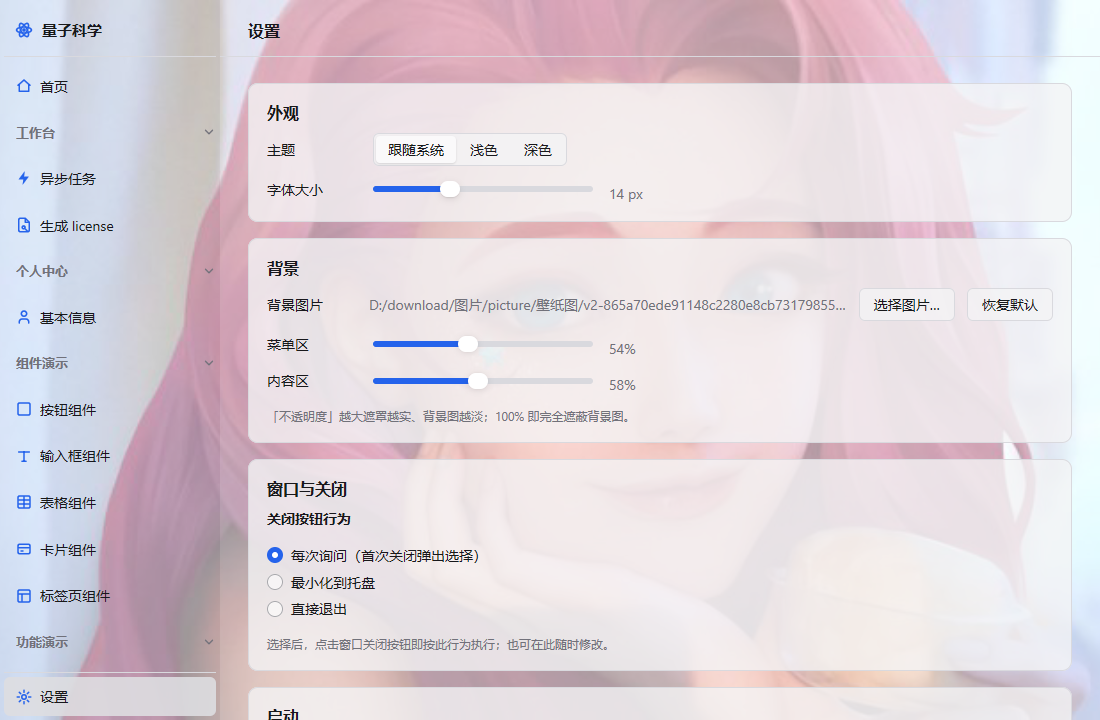
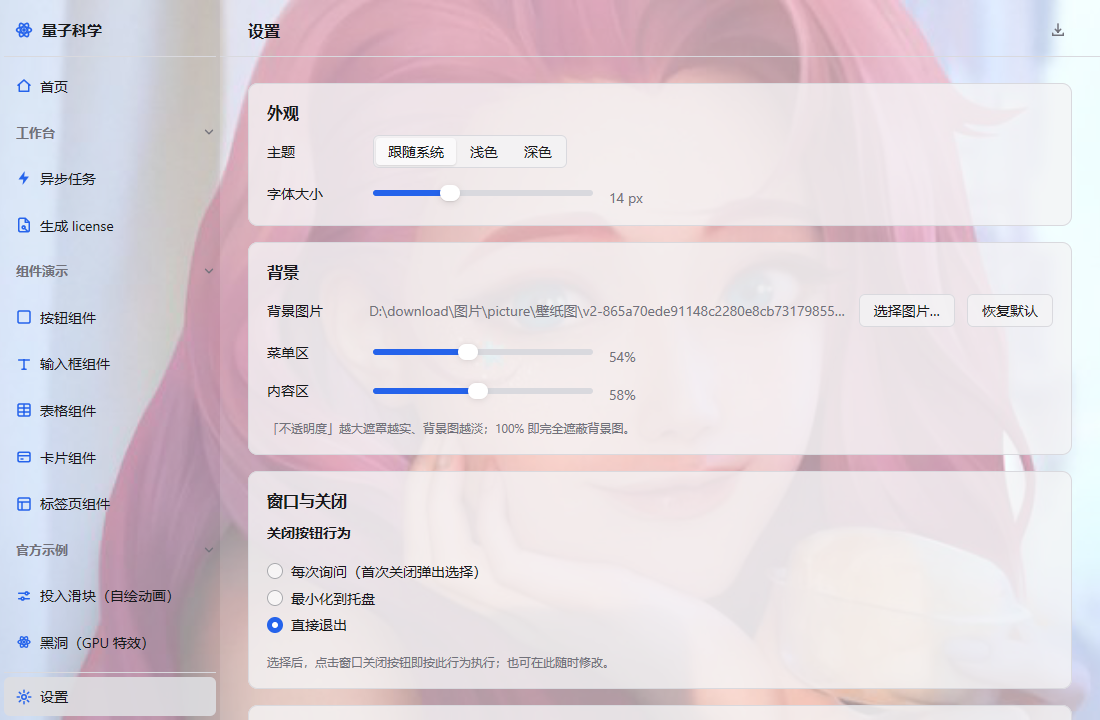
docs: 新增 CHANGELOG.md 并刷新全部界面截图
- CHANGELOG.md：按 mygo 规则分 `## <版本>` 段落（0.1.3/0.1.2/0.1.1/0.1.0）。
  发版时该段会写入 update-*.json 的 notes，并显示在客户端「发现新版本」弹窗
- 重新生成 12 张界面截图：更新控件移到标题栏后旧图已过期；
  12-settings-latest.png 改为 12-update-dialog.png（更新确认弹窗）
- 截图用 go test -overlay 编译期替换 appmeta.BuildVersion，
  避免 README 图里出现 dev 版本号
- README 图注同步（04 为设置页内弹窗、10~12 为标题栏与弹窗）
- docs/screenshots/README.md 补充：onEnter 抑制、更新三态摆法、overlay 用法

diff --git a/CHANGELOG.md b/CHANGELOG.md
@@ -1,0 +1,29 @@
+# 更新日志
+
+> 本文件会被 `go tool mygo build` 读取：`## <版本>` 到下一个 `## ` 之间的内容会成为
+> `update-<target>.json` 的 `notes`，并显示在客户端「发现新版本」弹窗里。
+> **发版前必须为新版本加一段**——文件存在但找不到对应段落时，构建会直接报错失败。
+
+## 0.1.3
+
+- 更新弹窗现在会显示发布说明（新增本文件）
+- Windows 免安装版新增英文名 zip：quantum-<ver>-windows-portable.zip，内含 量子科学.exe 与 icon.png，解压即用
+- 重新生成全部界面截图（更新控件移到标题栏后，旧图已过期）
+- 发布手册补充「签名密钥」章节：生成方式、密钥格式、签名对象、无私钥的后果
+
+## 0.1.2
+
+- 新增 `RELEASING.md` 发布与更新手册：双远端推送顺序、三平台 CI、draft 转正式、故障排查
+- 补充中文 exe 排查结论（GitHub Releases 不接受中文资产名，会变成 `default.exe`）与 Windows 免安装用法
+
+## 0.1.1
+
+- 接入 `mygo.Updater` 自动更新：GitHub Release + ed25519 验签、就地替换、自动重启
+- 设置页标题栏新增更新控件：无更新为图标按钮，有更新为高亮「更新」胶囊，点击弹确认弹窗
+- 移除运行时可配置的「更新服务器」，更新源改为构建期固化（`mygo.json` 的 `updates`）
+
+## 0.1.0
+
+- 首个版本：首页、异步任务、生成 license、组件演示、官方示例、功能演示、设置
+- 菜单注册表 + 页面生命周期（keepPinned / keepCached / keepFresh）
+- 背景图 + 分区透明度、轻重两级任务反馈、彩带庆祝

diff --git a/docs/screenshots/README.md b/docs/screenshots/README.md
@@ -53,3 +53,26 @@ func TestShots(t *testing.T) {
 - `render(a)` 就是 `ui.NewTester(a.View, 1100, 720)`，无窗口；
 - 彩带这种动画需要 `tt := render(a); a.celebrate(4); for i:=0;i<8;i++ { tt.Advance(60*time.Millisecond); tt.Frame() }` 再取 `tt.Image()`；
 - 截图会带上当前主题（浅色/深色）与背景图，想要深色版就把 `settings.Default().Theme` 改成 `"dark"`。
+
+## 两个必须注意的点
+
+- **进设置页前要抑制 `onEnter`**：设置页的 `onEnter` 会真的发起一次检查更新（网络请求）。截图前把 `a.pagePrev = a.page`，`SyncPages` 就不会触发钩子。
+- **更新控件已移到标题栏**，三种状态这样摆：
+
+  ```go
+  a.updateChecking = true                                            // 检查中（呼吸点）
+  a.availableUpdate = &mygo.Update{Version: "0.1.3", Notes: "…", Date: someDate} // 发现新版本（蓝色胶囊）
+  a.showUpdateDialog = true                                          // 再点开确认弹窗
+  ```
+
+- **版本号**：`appmeta.BuildVersion()` 在测试二进制里恒为 `dev`。想让截图显示真实版本，用 `go test -overlay` 在**编译期**替换 `internal/appmeta/appmeta.go`（不要改仓库里的文件）：
+
+  ```json
+  { "Replace": {
+      "D:/workbuddy/bestuav-mygo/internal/appmeta/appmeta.go": "C:/temp/appmeta_shot.go"
+  } }
+  ```
+
+  覆盖文件内容与原文件相同，只把 `BuildVersion()` 改成 `return "0.1.2"`。
+
+- 尺寸统一 `1100×720`。`12-update-dialog.png` 是「发现新版本」弹窗，原 `12-settings-latest.png` 已废弃删除。

diff --git a/README.md b/README.md
@@ -41,7 +41,7 @@
 |---|---|
 | ![首页](docs/screenshots/01-home.png) | ![异步任务](docs/screenshots/02-task.png) |
 
-| 生成 license | 基本信息（设置 →「关于」→「查看」） |
+| 生成 license | 基本信息（设置页内弹窗） |
 |---|---|
 | ![生成 license](docs/screenshots/03-license.png) | ![基本信息](docs/screenshots/04-basic-info.png) |
 
@@ -53,13 +53,13 @@
 |---|---|
 | ![设置](docs/screenshots/07-settings.png) | ![重量级任务遮罩](docs/screenshots/08-mask.png) |
 
-| 检查更新 · 检查中 | 检查更新 · 发现新版本 |
+| 检查更新 · 检查中（标题栏呼吸点） | 检查更新 · 发现新版本（标题栏胶囊） |
 |---|---|
 | ![检查中](docs/screenshots/10-settings-checking.png) | ![发现新版本](docs/screenshots/11-settings-available.png) |
 
-| 检查更新 · 已是最新 |
+| 更新确认弹窗（点标题栏「更新」胶囊） |
 |---|
-| ![已是最新](docs/screenshots/12-settings-latest.png) |
+| ![更新弹窗](docs/screenshots/12-update-dialog.png) |
 
 | 彩带庆祝（点击后 0.5s） |
 |---|
